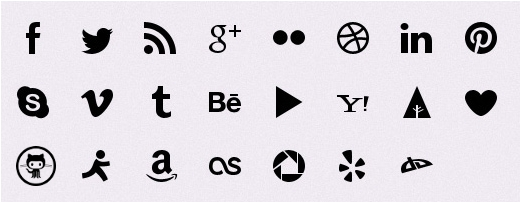
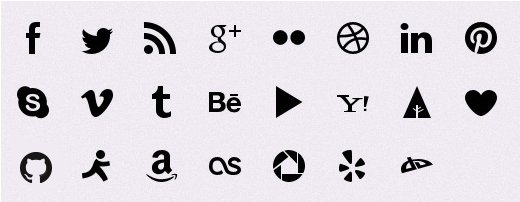
change nav to make github pages link clearer; change to socialicons img

Changed region(s): [[0.0308, 0.7129, 0.1231, 0.9208]]

diff --git a/themes/codehub/stylesheets/screen.css b/themes/codehub/stylesheets/screen.css
@@ -81,10 +81,6 @@ a:visited {
   color: #665956;
 }
 
-em{
-  font-style: italic;
-}
-
 .inner {
   width: 88%;
   margin: 0 auto;
@@ -256,6 +252,15 @@ h3 {
 }
 .nav li.current, .nav li.section-active {
   background: #ecebe3;
+}
+.nav li.gitlink a, .nav li.codehublink a {
+  color: #acc2be;
+}
+.nav li.gitlink {
+  background: #4d555b url(../img/octocat.png) no-repeat 5px 5px;
+}
+.nav li.codehublink {
+  background: url("../img/codehub.png") no-repeat scroll 5px 2px #4d555b;
 }
 
 /* @end group */

diff --git a/themes/codehub/sass/screen.scss b/themes/codehub/sass/screen.scss
@@ -168,6 +168,20 @@ h3{
   li.current, li.section-active {
     background: $fontColor;
   }
+  
+  li.gitlink, li.codehublink{   
+    a{
+     color: #acc2be;     
+    }    
+  }
+  
+  li.gitlink{
+   background: #4D555B url(../img/octocat.png) no-repeat 5px 5px ;
+  }
+  
+  li.codehublink{
+   background: url("../img/codehub.png") no-repeat scroll 5px 2px #4D555B;
+  }
 }
 /* @end group */
 

diff --git a/blocks/autonav/view.php b/blocks/autonav/view.php
@@ -17,6 +17,10 @@ foreach ($navItems as $ni) {
     //class for parent items of the page currently being viewed
     $classes[] = 'section-active';
   }
+  
+  if($ni->name == 'Github Pages'){
+    $classes[] = 'gitlink';
+  }
 
   //Put all classes together into one space-separated string
   $ni->classes = implode(" ", $classes);
